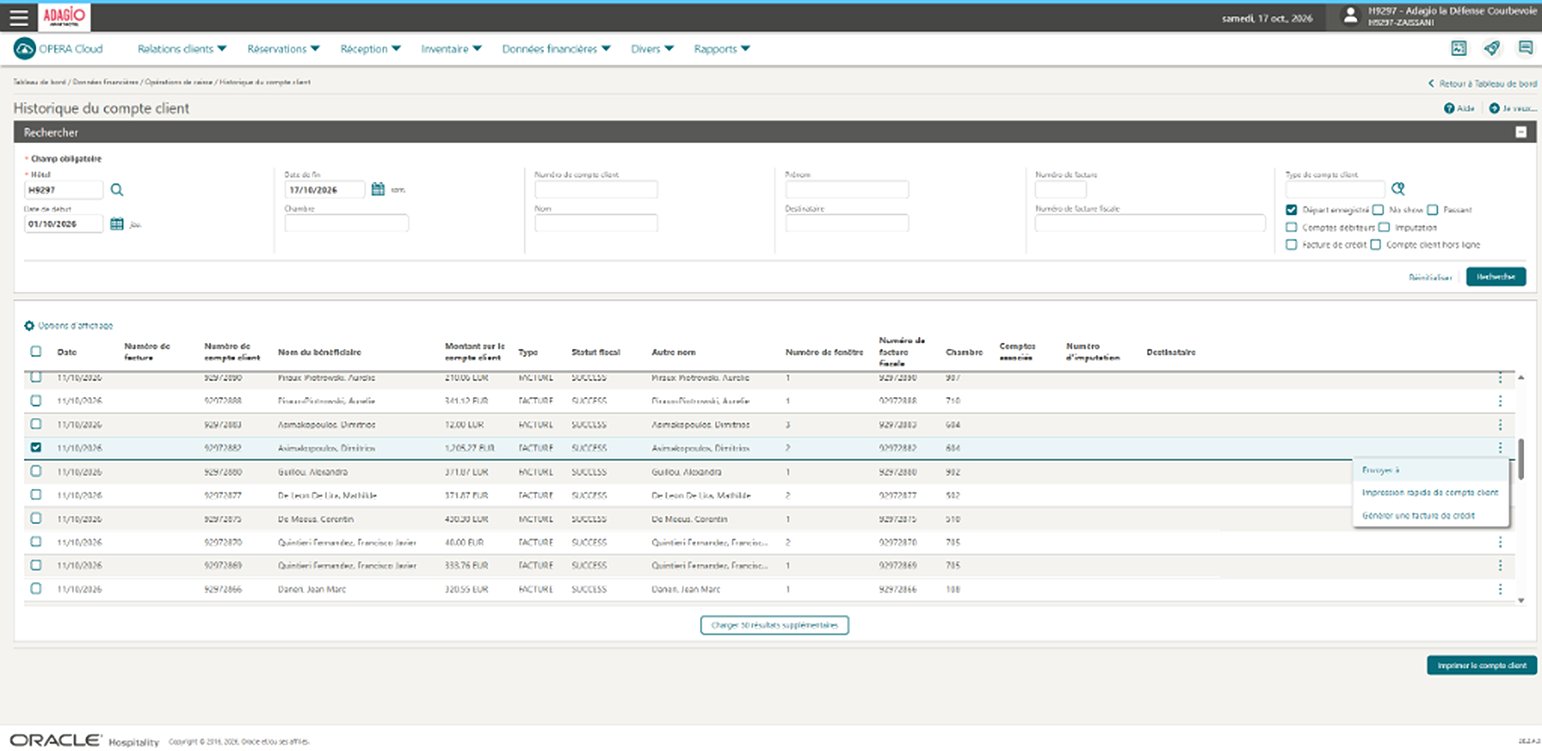
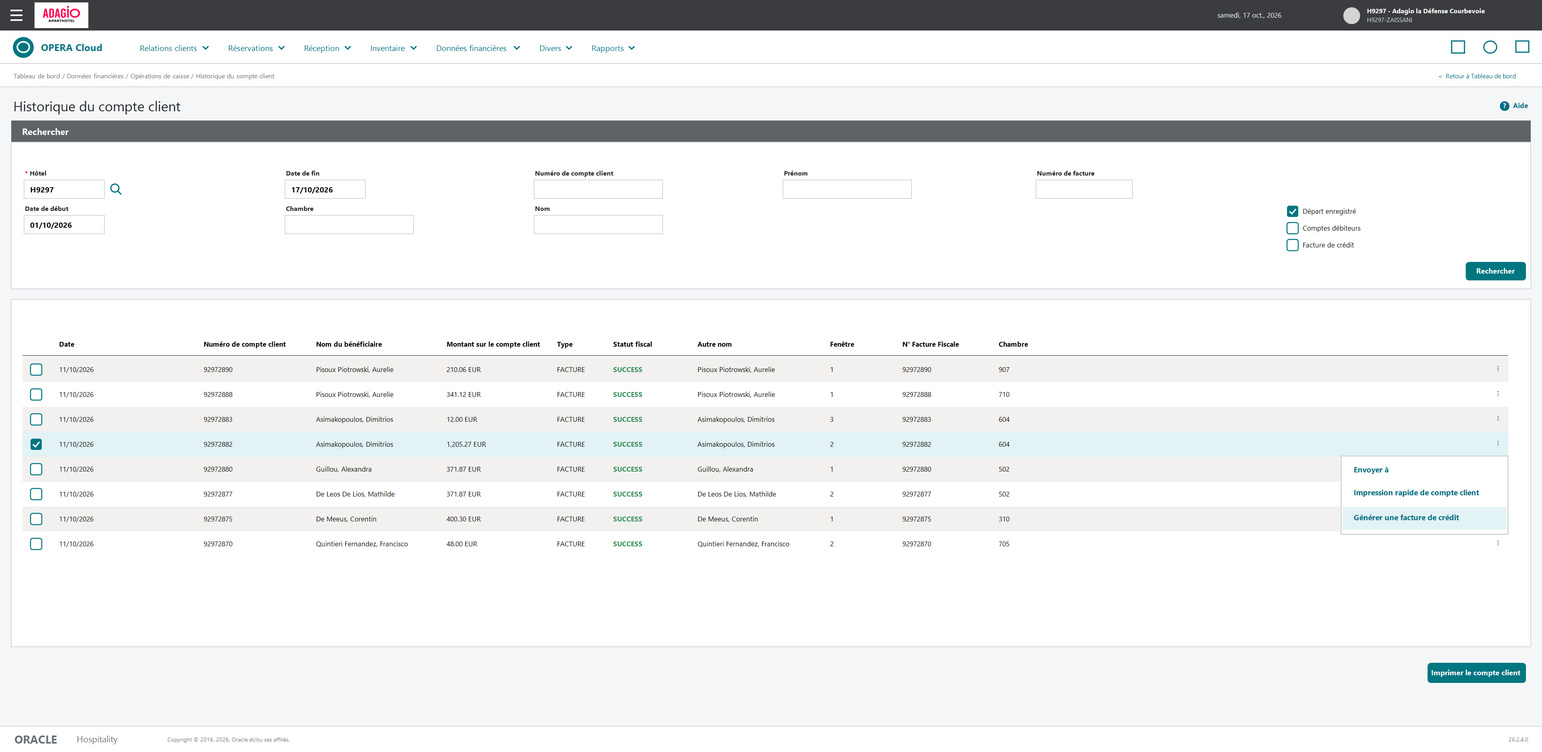
feat(opera-4k): enrichissement des modules avec documentation Oracle OPERA Cloud et 11 captures francaises 4K vectorielles

diff --git a/index.html b/index.html
@@ -3298,6 +3298,59 @@
                         </div>
                     </div>
 
+                    <!-- GUIDE VISUEL ORACLE OPERA CLOUD : CLÔTURE DE CAISSE & NIGHT AUDIT (4K) -->
+                    <div class="bg-white dark:bg-slate-800 rounded-3xl p-6 sm:p-8 shadow-sm border border-gray-200 dark:border-slate-700 mt-6">
+                        <div class="flex flex-wrap items-center justify-between gap-3 mb-4">
+                            <div class="flex items-center gap-3">
+                                <div class="w-10 h-10 rounded-xl bg-purple-100 dark:bg-purple-900/50 text-purple-600 dark:text-purple-400 flex items-center justify-center text-lg font-black">
+                                    <i class="fas fa-cash-register"></i>
+                                </div>
+                                <div>
+                                    <span class="text-[10px] font-bold uppercase tracking-wider px-2.5 py-0.5 rounded-full bg-purple-100 dark:bg-purple-900/60 text-purple-700 dark:text-purple-300">Documentation Officielle Oracle OPERA Cloud • Cashiering & End of Day</span>
+                                    <h3 class="text-lg sm:text-xl font-black text-gray-900 dark:text-white mt-0.5">Contrôle de Caisse & Clôture Journalière (Night Audit) dans Opera Cloud</h3>
+                                </div>
+                            </div>
+                            <button onclick="openLightbox('img/opera-checklist-eod.png', 'Capture Opera Cloud (4K) : Clôture de caisse (Cashier Closure) & 5 Points de contrôle Night Audit')"
+                                class="px-3.5 py-2 rounded-xl bg-purple-600 hover:bg-purple-700 text-white text-xs font-bold flex items-center gap-2 shadow-sm cursor-pointer transition-all">
+                                <i class="fas fa-search-plus"></i> Ouvrir la capture en 4K
+                            </button>
+                        </div>
+
+                        <div class="grid grid-cols-1 md:grid-cols-3 gap-4 mb-5 text-xs text-gray-700 dark:text-gray-300">
+                            <div class="p-4 rounded-2xl bg-gray-50 dark:bg-slate-900/60 border border-gray-200 dark:border-slate-700">
+                                <strong class="text-purple-700 dark:text-purple-400 block mb-1">1. Fermeture Caissier (Cashier Closure)</strong>
+                                Menu <code class="font-mono font-bold">Données financières &gt; Opérations de caisse &gt; Clôture de caisse</code>. Vérifiez que le montant espèces attendu correspond au fonds de caisse physique avant de clôturer le shift.
+                            </div>
+                            <div class="p-4 rounded-2xl bg-gray-50 dark:bg-slate-900/60 border border-gray-200 dark:border-slate-700">
+                                <strong class="text-purple-700 dark:text-purple-400 block mb-1">2. Zéro Due-In / Zéro Due-Out</strong>
+                                Selon la documentation Oracle <em>End of Day Sequence</em>, toutes les arrivées non présentées doivent être traitées (No-Show ou report de date) et tous les départs du jour doivent afficher un solde à <code class="font-mono font-bold">0.00 EUR</code>.
+                            </div>
+                            <div class="p-4 rounded-2xl bg-gray-50 dark:bg-slate-900/60 border border-gray-200 dark:border-slate-700">
+                                <strong class="text-purple-700 dark:text-purple-400 block mb-1">3. Audit Fiscal OFIS & Rapports</strong>
+                                Contrôlez l'absence de statut <code class="font-mono font-bold text-rose-600">FAILED</code> dans <em>Historique du compte client</em> et pointez les rapports <code class="font-mono font-bold">finjrnlbytrans</code> et <code class="font-mono font-bold">trial_balance</code>.
+                            </div>
+                        </div>
+
+                        <div class="rounded-2xl overflow-hidden border border-gray-200 dark:border-slate-700 shadow-sm bg-white dark:bg-slate-900">
+                            <div class="bg-slate-100 dark:bg-slate-800 px-4 py-2 border-b border-gray-200 dark:border-slate-700 flex items-center justify-between text-xs">
+                                <span class="font-bold text-gray-700 dark:text-gray-200 flex items-center gap-1.5">
+                                    <i class="fas fa-camera text-purple-600"></i> Capture Opera Cloud (Français • 4K UHD) : <span class="font-mono text-[11px] bg-white dark:bg-slate-700 px-1.5 py-0.5 rounded">Données financières / Opérations de caisse / Clôture de caisse</span>
+                                </span>
+                                <span class="text-[11px] font-bold text-purple-600 dark:text-purple-400">Cliquer sur l'image pour zoomer en 4K</span>
+                            </div>
+                            <div class="relative group cursor-zoom-in"
+                                onclick="openLightbox('img/opera-checklist-eod.png', 'Capture Opera Cloud (4K) : Clôture de caisse (Cashier Closure) & 5 Points de contrôle Night Audit')">
+                                <img src="img/opera-checklist-eod.png" alt="Clôture de caisse et vérifications Night Audit Opera Cloud"
+                                    class="w-full h-auto object-cover group-hover:opacity-95 transition-all">
+                                <div class="absolute inset-0 bg-slate-900/10 opacity-0 group-hover:opacity-100 transition-opacity flex items-center justify-center pointer-events-none">
+                                    <span class="px-4 py-2 rounded-xl bg-slate-900/85 backdrop-blur-md text-white text-xs font-bold shadow-xl flex items-center gap-2">
+                                        <i class="fas fa-expand-alt"></i> Ouvrir en plein écran 4K
+                                    </span>
+                                </div>
+                            </div>
+                        </div>
+                    </div>
+
                 </div>
             </div>
 
@@ -4347,13 +4400,63 @@
                         </div>
 
                         <!-- Alerte fin de module -->
-                        <div class="alert-box alert-danger">
+                        <div class="alert-box alert-danger mb-6">
                             <h4 class="font-bold mb-1 flex items-center"><i
                                     class="fas fa-exclamation-triangle mr-2"></i> Contrôle Audit de Nuit</h4>
                             <p class="text-xs">
                                 Ne jamais annuler un dossier contenant un solde positif ou des arrhes en suspens sans
                                 avoir fait le mouvement de régularisation comptable au préalable.
                             </p>
+                        </div>
+
+                        <!-- GUIDE VISUEL ORACLE OPERA CLOUD : DÉTAILS JOURNALIERS (DAILY DETAILS) & TARIF FIXE (4K) -->
+                        <div class="bg-gray-50/80 dark:bg-slate-900/60 p-5 sm:p-6 rounded-3xl border border-blue-200 dark:border-blue-900/60 shadow-sm">
+                            <div class="flex flex-wrap items-center justify-between gap-3 mb-4">
+                                <div>
+                                    <span class="text-[10px] font-bold uppercase tracking-wider px-2.5 py-0.5 rounded-full bg-blue-100 dark:bg-blue-900/60 text-blue-700 dark:text-blue-300">Documentation Officielle Oracle OPERA Cloud • Daily Details & Fixed Rate</span>
+                                    <h4 class="text-base sm:text-lg font-black text-gray-900 dark:text-white mt-1">
+                                        Verrouiller un Tarif Long Séjour (<code class="font-mono text-blue-600">Tarif fixe / Fixed Rate</code>) & l'Appartement (<code class="font-mono text-blue-600">Ne pas déplacer / DNM</code>)
+                                    </h4>
+                                </div>
+                                <button onclick="openLightbox('img/opera-resa-daily.png', 'Capture Opera Cloud (4K) : Détails journaliers (Daily Details), Paliers dégressifs Adagio et Tarif Fixe verrouillé')"
+                                    class="px-3 py-1.5 rounded-xl bg-blue-600 hover:bg-blue-700 text-white text-xs font-bold flex items-center gap-1.5 shadow-xs cursor-pointer transition-all">
+                                    <i class="fas fa-search-plus"></i> Plein écran 4K
+                                </button>
+                            </div>
+
+                            <div class="grid grid-cols-1 md:grid-cols-3 gap-3 mb-4 text-xs text-gray-700 dark:text-gray-300">
+                                <div class="p-3.5 rounded-2xl bg-white dark:bg-slate-800 border border-gray-200 dark:border-slate-700">
+                                    <strong class="text-blue-700 dark:text-blue-400 block mb-1">1. Écran Détails journaliers (Daily Details)</strong>
+                                    Dans la réservation (<code class="font-mono font-bold">Réservations &gt; Gérer la réservation</code>), cliquez sur le lien du tarif ou sur <em>Détails du séjour &gt; Détails journaliers</em> pour inspecter le tarif nuit par nuit.
+                                </div>
+                                <div class="p-3.5 rounded-2xl bg-white dark:bg-slate-800 border border-gray-200 dark:border-slate-700">
+                                    <strong class="text-blue-700 dark:text-blue-400 block mb-1">2. Cocher « Tarif fixe (Fixed Rate) »</strong>
+                                    Conformément à la documentation Oracle OPERA Cloud, cocher <strong>Tarif fixe</strong> empêche le PMS de recalculer automatiquement les nuits au tarif public du jour lors d'une prolongation ou d'une modification de séjour.
+                                </div>
+                                <div class="p-3.5 rounded-2xl bg-white dark:bg-slate-800 border border-gray-200 dark:border-slate-700">
+                                    <strong class="text-blue-700 dark:text-blue-400 block mb-1">3. Cadenas « Ne pas déplacer (Do Not Move) »</strong>
+                                    Pour tout long séjour (10–27n / 28+n) ou studio PMR attribué à l'avance, cochez <strong>Ne pas déplacer (DNM)</strong> afin de bloquer toute réattribution accidentelle avant le check-in.
+                                </div>
+                            </div>
+
+                            <div class="rounded-2xl overflow-hidden border border-gray-200 dark:border-slate-700 shadow-sm bg-white dark:bg-slate-900">
+                                <div class="bg-slate-100 dark:bg-slate-800 px-4 py-2 border-b border-gray-200 dark:border-slate-700 flex items-center justify-between text-xs">
+                                    <span class="font-bold text-gray-700 dark:text-gray-200 flex items-center gap-1.5">
+                                        <i class="fas fa-camera text-blue-600"></i> Capture Opera Cloud (Français • 4K UHD) : <span class="font-mono text-[11px] bg-white dark:bg-slate-700 px-1.5 py-0.5 rounded">Réservations / Gérer la réservation / Détails journaliers</span>
+                                    </span>
+                                    <span class="text-[11px] font-bold text-blue-600 dark:text-blue-400">Cliquer pour agrandir en 4K</span>
+                                </div>
+                                <div class="relative group cursor-zoom-in"
+                                    onclick="openLightbox('img/opera-resa-daily.png', 'Capture Opera Cloud (4K) : Détails journaliers (Daily Details), Paliers dégressifs Adagio et Tarif Fixe verrouillé')">
+                                    <img src="img/opera-resa-daily.png" alt="Détails journaliers et Tarif Fixe Opera Cloud"
+                                        class="w-full h-auto object-cover group-hover:opacity-95 transition-all">
+                                    <div class="absolute inset-0 bg-slate-900/10 opacity-0 group-hover:opacity-100 transition-opacity flex items-center justify-center pointer-events-none">
+                                        <span class="px-4 py-2 rounded-xl bg-slate-900/85 backdrop-blur-md text-white text-xs font-bold shadow-xl flex items-center gap-2">
+                                            <i class="fas fa-expand-alt"></i> Ouvrir en plein écran 4K
+                                        </span>
+                                    </div>
+                                </div>
+                            </div>
                         </div>
                     </div>
 
@@ -7662,6 +7765,67 @@
                                     class="p-3 bg-white dark:bg-slate-800 rounded-xl border border-gray-200 dark:border-slate-700 flex items-center gap-2">
                                     <i class="fas fa-glass-cheers text-purple-500"></i>
                                     <span>Welcome drinks & attentions VIP prêts</span>
+                                </div>
+                            </div>
+                        </div>
+
+                        <!-- GUIDES VISUELS ORACLE OPERA CLOUD : ATTRIBUTION DE CHAMBRE & INSTRUCTIONS DE ROUTAGE (4K) -->
+                        <div class="mt-8 grid grid-cols-1 lg:grid-cols-2 gap-6">
+                            <!-- Capture A : Attribution des chambres, Statut Inspecté & Do Not Move -->
+                            <div class="p-5 bg-white dark:bg-slate-800 rounded-3xl border border-indigo-200 dark:border-indigo-900/60 shadow-sm flex flex-col justify-between">
+                                <div>
+                                    <div class="flex items-center justify-between gap-2 mb-3">
+                                        <span class="text-[10px] font-bold uppercase tracking-wider px-2.5 py-0.5 rounded-full bg-indigo-100 dark:bg-indigo-900/60 text-indigo-700 dark:text-indigo-300">Oracle OPERA Cloud • Room Assignment & DNM</span>
+                                        <button onclick="openLightbox('img/opera-sejour-roomassign.png', 'Capture Opera Cloud (4K) : Attribution des chambres (Statut Inspecté, cadenas Ne pas déplacer / Do Not Move et Traces HK)')"
+                                            class="px-2.5 py-1 rounded-lg bg-indigo-600 hover:bg-indigo-700 text-white text-[11px] font-bold flex items-center gap-1 cursor-pointer transition-all">
+                                            <i class="fas fa-search-plus"></i> Plein écran 4K
+                                        </button>
+                                    </div>
+                                    <h4 class="font-black text-gray-900 dark:text-white text-base mb-2">
+                                        Écran Attribution des Chambres (<code class="font-mono text-indigo-600">Inspecté</code> & <code class="font-mono text-indigo-600">Ne pas déplacer</code>)
+                                    </h4>
+                                    <p class="text-xs text-gray-600 dark:text-gray-300 leading-relaxed mb-3">
+                                        Dans <code class="font-mono font-bold">Réception &gt; Arrivées &gt; Attribution des chambres</code>, filtrez sur le statut Housekeeping <strong>Inspecté (Inspected)</strong>. Pour les longs séjours, PMR ou VIP, cochez <strong>Ne pas déplacer (Do Not Move)</strong> afin de verrouiller l'appartement jusqu'au check-in, et vérifiez les <strong>Traces</strong> étages.
+                                    </p>
+                                </div>
+                                <div class="rounded-2xl overflow-hidden border border-gray-200 dark:border-slate-700 shadow-xs bg-white relative group cursor-zoom-in"
+                                    onclick="openLightbox('img/opera-sejour-roomassign.png', 'Capture Opera Cloud (4K) : Attribution des chambres (Statut Inspecté, cadenas Ne pas déplacer / Do Not Move et Traces HK)')">
+                                    <img src="img/opera-sejour-roomassign.png" alt="Attribution des chambres Opera Cloud"
+                                        class="w-full h-auto object-cover group-hover:opacity-95 transition-all">
+                                    <div class="absolute inset-0 bg-slate-900/10 opacity-0 group-hover:opacity-100 transition-opacity flex items-center justify-center pointer-events-none">
+                                        <span class="px-3.5 py-1.5 rounded-xl bg-slate-900/85 backdrop-blur-md text-white text-xs font-bold shadow-xl flex items-center gap-1.5">
+                                            <i class="fas fa-expand-alt"></i> Agrandir en 4K
+                                        </span>
+                                    </div>
+                                </div>
+                            </div>
+
+                            <!-- Capture B : Instructions de facturation / Routing Instructions -->
+                            <div class="p-5 bg-white dark:bg-slate-800 rounded-3xl border border-amber-200 dark:border-amber-900/60 shadow-sm flex flex-col justify-between">
+                                <div>
+                                    <div class="flex items-center justify-between gap-2 mb-3">
+                                        <span class="text-[10px] font-bold uppercase tracking-wider px-2.5 py-0.5 rounded-full bg-amber-100 dark:bg-amber-900/60 text-amber-800 dark:text-amber-300">Oracle OPERA Cloud • Routing Instructions</span>
+                                        <button onclick="openLightbox('img/opera-sejour-routing.png', 'Capture Opera Cloud (4K) : Instructions de facturation (Routage automatique 1000 + 2000 vers Fenêtre 2 Société/VCC et option rétroactive In-House)')"
+                                            class="px-2.5 py-1 rounded-lg bg-amber-600 hover:bg-amber-700 text-white text-[11px] font-bold flex items-center gap-1 cursor-pointer transition-all">
+                                            <i class="fas fa-search-plus"></i> Plein écran 4K
+                                        </button>
+                                    </div>
+                                    <h4 class="font-black text-gray-900 dark:text-white text-base mb-2">
+                                        Écran Instructions de Facturation (<code class="font-mono text-amber-600">Folio Routing Fenêtre 2</code>)
+                                    </h4>
+                                    <p class="text-xs text-gray-600 dark:text-gray-300 leading-relaxed mb-3">
+                                        Via <code class="font-mono font-bold">Je veux... &gt; Instructions de facturation</code>, routez les codes <code class="font-mono font-bold">1000</code> (Appartement) et <code class="font-mono font-bold">2000</code> (PDJ si inclus) vers la <strong>Fenêtre 2 (Société / VCC)</strong> en laissant la taxe de séjour (<code class="font-mono font-bold">7530</code>) en Fenêtre 1. Cochez toujours <em>« Appliquer les instructions aux imputations des réservations présentes »</em>.
+                                    </p>
+                                </div>
+                                <div class="rounded-2xl overflow-hidden border border-gray-200 dark:border-slate-700 shadow-xs bg-white relative group cursor-zoom-in"
+                                    onclick="openLightbox('img/opera-sejour-routing.png', 'Capture Opera Cloud (4K) : Instructions de facturation (Routage automatique 1000 + 2000 vers Fenêtre 2 Société/VCC et option rétroactive In-House)')">
+                                    <img src="img/opera-sejour-routing.png" alt="Instructions de facturation Routing Opera Cloud"
+                                        class="w-full h-auto object-cover group-hover:opacity-95 transition-all">
+                                    <div class="absolute inset-0 bg-slate-900/10 opacity-0 group-hover:opacity-100 transition-opacity flex items-center justify-center pointer-events-none">
+                                        <span class="px-3.5 py-1.5 rounded-xl bg-slate-900/85 backdrop-blur-md text-white text-xs font-bold shadow-xl flex items-center gap-1.5">
+                                            <i class="fas fa-expand-alt"></i> Agrandir en 4K
+                                        </span>
+                                    </div>
                                 </div>
                             </div>
                         </div>
@@ -11563,6 +11727,36 @@
                                                     </div>
                                                 </div>
                                             </div>
+
+                                            <!-- CAPTURE D'ÉCRAN N°3 : CARDEX E-REPORTING B2B ÉTRANGER & CHORUS PRO (4K) -->
+                                            <div
+                                                class="border border-slate-300 rounded-xl overflow-hidden shadow-xs bg-white mt-4">
+                                                <div
+                                                    class="bg-slate-100 px-3 py-1.5 border-b border-slate-200 text-[11px] font-bold text-slate-700 flex items-center justify-between gap-2">
+                                                    <span>Capture d'écran n°3 : Cas E-Reporting B2B (Société Étrangère : SIRET vide, TVA DE114108789, Communication eInvoicing Address sans 9914:, Pays = DE)</span>
+                                                    <div class="flex items-center gap-2 shrink-0">
+                                                        <span class="font-mono text-[10px] text-rose-600 hidden sm:inline">E-Reporting UE • B2G Chorus Pro</span>
+                                                        <button
+                                                            onclick="openLightbox('img/opera-ofis-ereporting.png', 'Capture 3 (OFIS) : Cardex Société Étrangère E-Reporting B2B (SIRET vide, TVA DE114108789, eInvoicing Address sans 9914:, Pays = DE)')"
+                                                            class="px-2.5 py-1 rounded-lg bg-rose-600 hover:bg-rose-700 text-white text-[10px] font-bold flex items-center gap-1 transition-all cursor-pointer shadow-xs">
+                                                            <i class="fas fa-search-plus"></i> Plein écran 4K
+                                                        </button>
+                                                    </div>
+                                                </div>
+                                                <div class="relative group cursor-zoom-in"
+                                                    onclick="openLightbox('img/opera-ofis-ereporting.png', 'Capture 3 (OFIS) : Cardex Société Étrangère E-Reporting B2B (SIRET vide, TVA DE114108789, eInvoicing Address sans 9914:, Pays = DE)')">
+                                                    <img src="img/opera-ofis-ereporting.png"
+                                                        alt="Cardex Société Étrangère E-Reporting B2B Opera Cloud"
+                                                        class="w-full h-auto object-cover group-hover:opacity-95 transition-all">
+                                                    <div
+                                                        class="absolute inset-0 bg-slate-900/10 opacity-0 group-hover:opacity-100 transition-opacity flex items-center justify-center pointer-events-none">
+                                                        <span
+                                                            class="px-4 py-2 rounded-xl bg-slate-900/85 backdrop-blur-md text-white text-xs font-bold shadow-xl flex items-center gap-2">
+                                                            <i class="fas fa-expand-alt"></i> Ouvrir en plein écran 4K
+                                                        </span>
+                                                    </div>
+                                                </div>
+                                            </div>
                                         </div>
                                     </div>
                                 </div>
@@ -15278,6 +15472,37 @@
                                             6</div>
                                         <div>Cliquez sur <strong>Prévisualiser/Télécharger</strong> puis imprimez le
                                             rapport.</div>
+                                    </div>
+                                </div>
+                            </div>
+
+                            <!-- GUIDE VISUEL ORACLE OPERA CLOUD : COMPTES DÉBITEURS (ACCOUNTS RECEIVABLE) 4K -->
+                            <div class="mt-6 bg-white dark:bg-slate-800 rounded-3xl p-5 sm:p-6 border border-slate-200 dark:border-slate-700 shadow-sm">
+                                <div class="flex flex-wrap items-center justify-between gap-3 mb-4">
+                                    <div>
+                                        <span class="text-[10px] font-bold uppercase tracking-wider px-2.5 py-0.5 rounded-full bg-slate-100 dark:bg-slate-700 text-slate-700 dark:text-slate-300">Documentation Officielle Oracle OPERA Cloud • Accounts Receivable (AR)</span>
+                                        <h4 class="text-base sm:text-lg font-black text-gray-900 dark:text-white mt-1">
+                                            Gestion des Comptes Débiteurs (<code class="font-mono text-indigo-600">City Ledger / Direct Bill</code>) & Suivi des Factures B2B
+                                        </h4>
+                                    </div>
+                                    <button onclick="openLightbox('img/opera-backoffice-ar.png', 'Capture Opera Cloud (4K) : Gérer les comptes débiteurs (Accounts Receivable / City Ledger, Solde, Échéance Aging et conformité Cardex OFIS)')"
+                                        class="px-3 py-1.5 rounded-xl bg-slate-900 hover:bg-slate-800 text-white text-xs font-bold flex items-center gap-1.5 shadow-xs cursor-pointer transition-all">
+                                        <i class="fas fa-search-plus"></i> Plein écran 4K
+                                    </button>
+                                </div>
+
+                                <p class="text-xs text-gray-600 dark:text-gray-300 leading-relaxed mb-4">
+                                    Dans <code class="font-mono font-bold">Données financières &gt; Comptes débiteurs &gt; Gérer les comptes débiteurs</code>, le Back-Office contrôle les comptes sociétés autorisés en paiement différé (<em>Direct Bill / DB</em>), vérifie la balance âgée (<em>Aging 0-30 / 31-60 jours</em>) et s'assure que chaque profil AR dispose d'un Cardex conforme OFIS avant tout transfert en City Ledger.
+                                </p>
+
+                                <div class="rounded-2xl overflow-hidden border border-gray-200 dark:border-slate-700 shadow-xs bg-white relative group cursor-zoom-in"
+                                    onclick="openLightbox('img/opera-backoffice-ar.png', 'Capture Opera Cloud (4K) : Gérer les comptes débiteurs (Accounts Receivable / City Ledger, Solde, Échéance Aging et conformité Cardex OFIS)')">
+                                    <img src="img/opera-backoffice-ar.png" alt="Gérer les comptes débiteurs Accounts Receivable Opera Cloud"
+                                        class="w-full h-auto object-cover group-hover:opacity-95 transition-all">
+                                    <div class="absolute inset-0 bg-slate-900/10 opacity-0 group-hover:opacity-100 transition-opacity flex items-center justify-center pointer-events-none">
+                                        <span class="px-4 py-2 rounded-xl bg-slate-900/85 backdrop-blur-md text-white text-xs font-bold shadow-xl flex items-center gap-2">
+                                            <i class="fas fa-expand-alt"></i> Ouvrir en plein écran 4K
+                                        </span>
                                     </div>
                                 </div>
                             </div>
